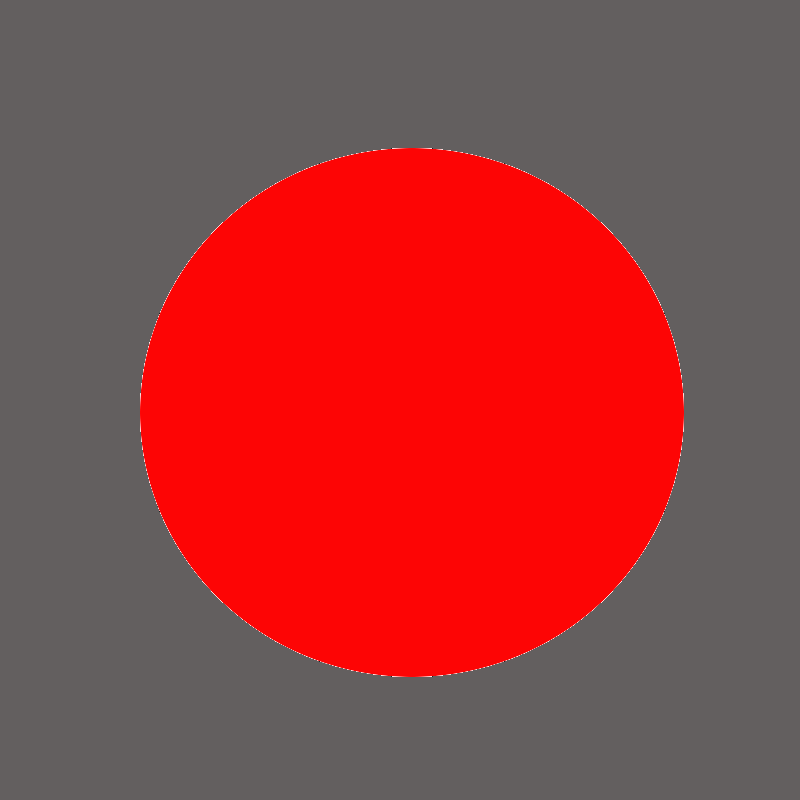
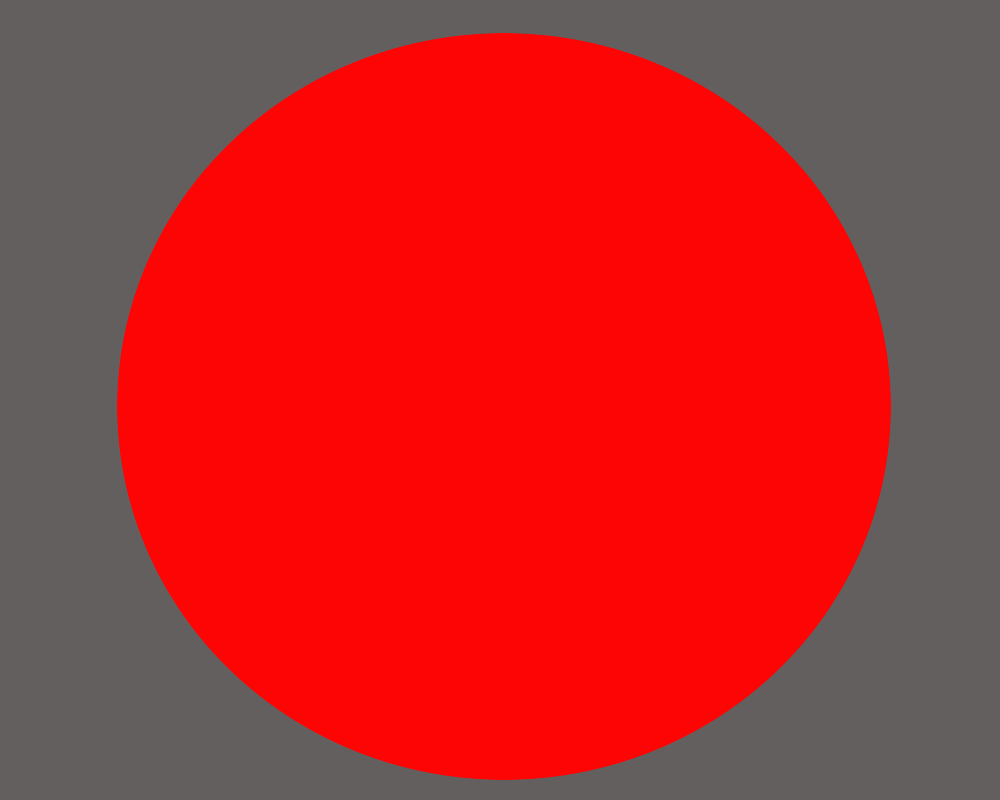
Resize images to 1000*800

Changed region(s): [[0.0938, 0.0312, 0.9062, 1.0]]

diff --git a/js/states/Preloader.js b/js/states/Preloader.js
@@ -7,7 +7,7 @@ App.Preloader.prototype = {
 
     preload: function() {
         this.background = this.add.sprite(0, 0, 'preloaderBackground');
-        this.preloadBar = this.add.sprite(this.world.width - (this.world.width / 2) - 150, 50, 'preloaderBar');
+        this.preloadBar = this.add.sprite(this.world.centerX - 150, this.world.centerY - 60, 'preloaderBar');
 
         this.load.setPreloadSprite(this.preloadBar);
 

diff --git a/js/app.js b/js/app.js
@@ -1,5 +1,5 @@
 window.onload = function() {
-    var game = new Phaser.Game(800, 800, Phaser.AUTO, 'canvas-container');
+    var game = new Phaser.Game(1000, 800, Phaser.AUTO, 'canvas-container');
 
     game.state.add('Boot',      App.Boot);
     game.state.add('Preloader', App.Preloader);

diff --git a/index.html b/index.html
@@ -10,7 +10,7 @@
 
 <body>
 
-    <div id="canvas-container" style="width: 800px; margin: auto;"></div>
+    <div id="canvas-container" style="width: 1000px; margin: auto;"></div>
 
     <script src="vendor/jquery-2.1.0.min.js"></script>
 
